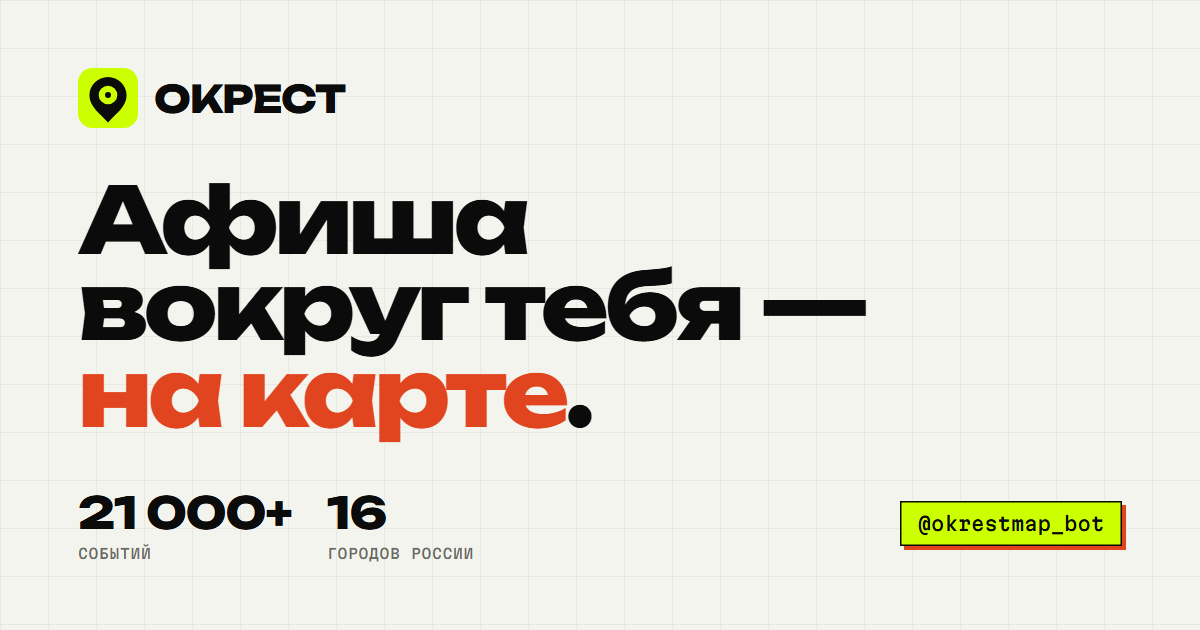
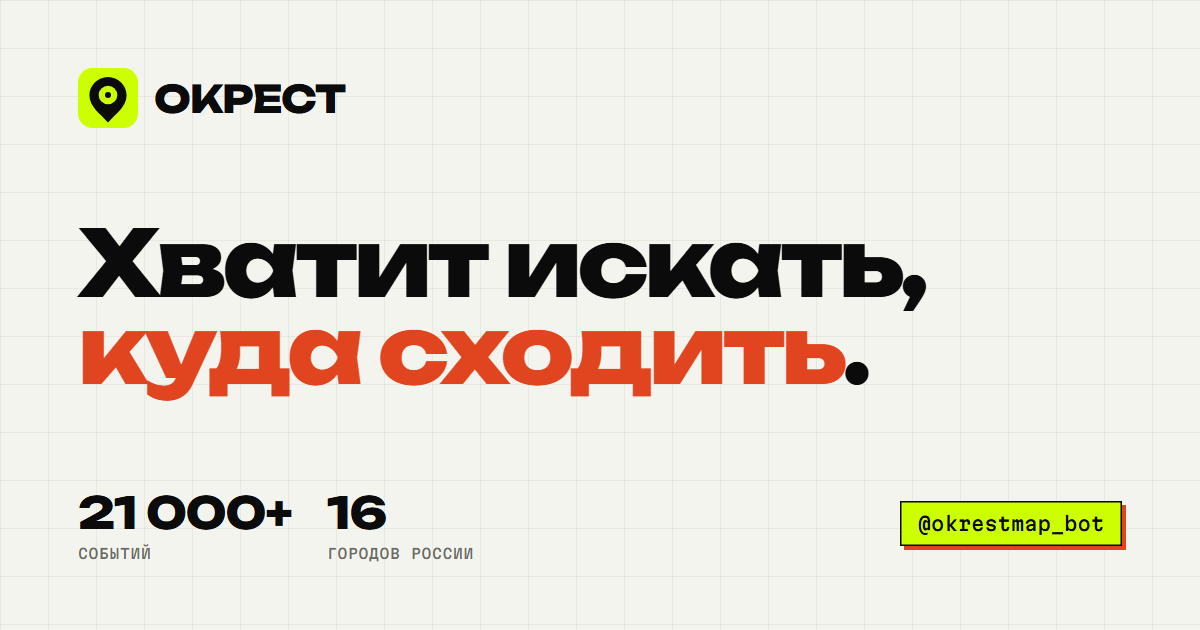
copy: rewrite landing voice - pain-led hero, scenario copy, human FAQ
Кill the robotic SEO-filler tone (per user + GPT critique). Pain-led hero 'Хватит искать, куда сходить'; scenario copy instead of repeating the category list everywhere (now stated once in hero); parallel demo cards 'На карте / В карточке / В списке'; livelier h2s ('Открыл — и город ожил', 'Что умеет Окрест', 'Уже работает в 16 городах'); FAQ with real questions ('Окрест — это что?', 'Это бесплатно? В чём подвох?', 'Нужно что-то устанавливать?') + matching FAQPage schema. New og:image headline + og/twitter copy.

Changed region(s): [[0.0617, 0.2714, 0.7708, 0.7238]]

diff --git a/landing/index.html b/landing/index.html
@@ -10,8 +10,8 @@
     <link rel="apple-touch-icon" href="favicon.svg" />
     <link rel="canonical" href="https://okrestmap.ru/" />
     <meta name="robots" content="index, follow, max-image-preview:large, max-snippet:-1" />
-    <meta property="og:title" content="Окрест — афиша на карте" />
-    <meta property="og:description" content="21 000+ событий в 16 городах России — концерты, выставки, спектакли, стендап и кино на одной карте, прямо в Telegram." />
+    <meta property="og:title" content="Хватит искать, куда сходить — Окрест" />
+    <meta property="og:description" content="Открываешь Окрест — и видишь, что рядом: сегодня, завтра или на выходных. Карта событий твоего города прямо в Telegram." />
     <meta property="og:type" content="website" />
     <meta property="og:url" content="https://okrestmap.ru/" />
     <meta property="og:site_name" content="Окрест" />
@@ -20,8 +20,8 @@
     <meta property="og:image:width" content="1200" />
     <meta property="og:image:height" content="630" />
     <meta name="twitter:card" content="summary_large_image" />
-    <meta name="twitter:title" content="Окрест — афиша на карте" />
-    <meta name="twitter:description" content="21 000+ событий в 16 городах России, прямо в Telegram." />
+    <meta name="twitter:title" content="Хватит искать, куда сходить — Окрест" />
+    <meta name="twitter:description" content="Карта событий твоего города в Telegram: что рядом сегодня, завтра или на выходных." />
     <meta name="twitter:image" content="https://okrestmap.ru/og.png" />
     <meta name="yandex-verification" content="1080c2a501830974" />
     <meta name="google-site-verification" content="vPrexlt72x3uw-UG8jdE1dETJbuHg49vNrrZMfgTBkY" />
@@ -33,12 +33,12 @@
           { "@type": "WebSite", "name": "Окрест", "url": "https://okrestmap.ru/", "inLanguage": "ru", "description": "Афиша 16 городов России на одной карте — концерты, выставки, спектакли, стендап и кино, прямо в Telegram." },
           { "@type": "SoftwareApplication", "name": "Окрест", "applicationCategory": "EntertainmentApplication", "operatingSystem": "Telegram", "url": "https://t.me/okrestmap_bot", "description": "Афиша событий на карте: концерты, выставки, спектакли, стендап и кино в 16 городах России.", "offers": { "@type": "Offer", "price": "0", "priceCurrency": "RUB" } },
           { "@type": "FAQPage", "mainEntity": [
-            { "@type": "Question", "name": "Что такое Окрест?", "acceptedAnswer": { "@type": "Answer", "text": "Окрест — это афиша событий на карте прямо в Telegram: концерты, выставки, спектакли, стендап и кино в 16 городах России на одной карте, без рекламы." } },
-            { "@type": "Question", "name": "В каких городах есть афиша?", "acceptedAnswer": { "@type": "Answer", "text": "Москва, Санкт-Петербург, Екатеринбург, Новосибирск, Казань, Нижний Новгород, Челябинск, Самара, Уфа, Ростов-на-Дону, Краснодар, Пермь, Воронеж, Волгоград, Красноярск и Омск — 16 городов, список пополняется." } },
-            { "@type": "Question", "name": "Сколько стоит?", "acceptedAnswer": { "@type": "Answer", "text": "Окрест бесплатный и без рекламы." } },
-            { "@type": "Question", "name": "Как пользоваться?", "acceptedAnswer": { "@type": "Answer", "text": "Открой бот @okrestmap_bot в Telegram — карта откроется прямо в приложении, ничего устанавливать не нужно." } },
-            { "@type": "Question", "name": "Какие события можно найти?", "acceptedAnswer": { "@type": "Answer", "text": "Концерты, выставки, спектакли, стендап, кино, фестивали и события для детей — больше 20 000 событий, обновляются каждый день." } },
-            { "@type": "Question", "name": "Можно получать напоминания?", "acceptedAnswer": { "@type": "Answer", "text": "Да — сохрани событие в избранное, и бот напомнит за 2 часа до начала." } }
+            { "@type": "Question", "name": "Окрест — это что?", "acceptedAnswer": { "@type": "Answer", "text": "Карта событий в твоём городе — прямо в Telegram. Открываешь и видишь, куда можно сходить: рядом, сегодня или в ближайшие дни." } },
+            { "@type": "Question", "name": "В моём городе работает?", "acceptedAnswer": { "@type": "Answer", "text": "Сейчас в 16 городах: Москва, Санкт-Петербург, Екатеринбург, Новосибирск, Казань, Нижний Новгород, Челябинск, Самара, Уфа, Ростов-на-Дону, Краснодар, Пермь, Воронеж, Волгоград, Красноярск и Омск. Новые добавляем постепенно." } },
+            { "@type": "Question", "name": "Это бесплатно? В чём подвох?", "acceptedAnswer": { "@type": "Answer", "text": "Бесплатно и без рекламы. Билеты не продаём и комиссию не берём — просто показываем, что вокруг." } },
+            { "@type": "Question", "name": "А события откуда?", "acceptedAnswer": { "@type": "Answer", "text": "Собираем из сотен источников — площадки, агрегаторы, официальные каналы — и обновляем каждый день. Прямо сейчас их больше 20 000." } },
+            { "@type": "Question", "name": "А если забуду, на что собрался?", "acceptedAnswer": { "@type": "Answer", "text": "Сохрани событие в избранное — напомним за пару часов до начала. И друзей можно позвать с собой." } },
+            { "@type": "Question", "name": "Нужно что-то устанавливать?", "acceptedAnswer": { "@type": "Answer", "text": "Нет. Открываешь @okrestmap_bot в Telegram — карта запускается прямо внутри, качать ничего не надо." } }
           ] }
         ]
       }
@@ -277,14 +277,14 @@
 
       <section class="hero">
         <div class="hero__text">
-          <h1 class="hero__title">Афиша вокруг тебя — <em>на&nbsp;карте</em>.</h1>
-          <p class="hero__sub">Концерты, выставки, спектакли, стендап и кино в <b>16 городах России</b>. Всё на одной карте — прямо в Telegram.</p>
+          <h1 class="hero__title">Хватит искать, <em>куда сходить</em>.</h1>
+          <p class="hero__sub">Открываешь Окрест — и видишь, что рядом: сегодня, завтра или на выходных. Концерты, выставки, стендап, кино и места, о которых ты не знал.</p>
           <div class="stats">
             <div><span class="stat__n"><span class="js-count">21&nbsp;200</span><em>+</em></span><span class="stat__k">событий</span></div>
             <div><span class="stat__n">16</span><span class="stat__k">городов</span></div>
           </div>
-          <div class="stats__note">обновляется каждый день</div>
-          <div><a class="cta" href="https://t.me/okrestmap_bot"><span>Открыть в Telegram</span><span class="cta__a">→</span></a></div>
+          <div class="stats__note">и каждый день новые</div>
+          <div><a class="cta" href="https://t.me/okrestmap_bot"><span>Найти, куда сходить</span><span class="cta__a">→</span></a></div>
         </div>
 
         <div class="hero__media">
@@ -318,42 +318,42 @@
       </section>
 
       <section class="demos">
-        <h2 class="demos__h">Как это работает</h2>
-        <p class="demos__s">Открываешь карту — видишь, что вокруг. Сохраняешь — напомним.</p>
+        <h2 class="demos__h">Открыл — и город ожил</h2>
+        <p class="demos__s">Без долгого поиска по десяткам сайтов и пабликов — просто карта с тем, что рядом.</p>
         <div class="row">
           <div class="col">
             <div class="phone"><div class="phone__screen"><img src="shots/map.jpg" width="720" height="1548" loading="lazy" alt="Карта событий вокруг — приложение Окрест" /></div></div>
-            <div class="col__k">Рядом</div>
-            <div class="col__t">Открыл карту — видно, что происходит вокруг прямо сейчас.</div>
+            <div class="col__k">На карте</div>
+            <div class="col__t">Сразу видно, что происходит рядом — в центре, у метро или в соседнем районе.</div>
           </div>
           <div class="col">
             <div class="phone"><div class="phone__screen"><img src="shots/event.jpg" width="720" height="1548" loading="lazy" alt="Карточка события — приложение Окрест" /></div></div>
-            <div class="col__k">Не пропустишь</div>
-            <div class="col__t">Время, цена, адрес, метро. Сохрани — напомним за 2 часа.</div>
+            <div class="col__k">В карточке</div>
+            <div class="col__t">Время, цена, адрес и метро — без лишних переходов. Сохрани — напомним за 2 часа.</div>
           </div>
           <div class="col">
             <div class="phone"><div class="phone__screen"><img src="shots/list.jpg" width="720" height="1548" loading="lazy" alt="Список событий — приложение Окрест" /></div></div>
-            <div class="col__k">Не любишь карту?</div>
-            <div class="col__t">Смотри списком и сортируй по дате, цене, близости.</div>
+            <div class="col__k">В списке</div>
+            <div class="col__t">Хочешь быстрее — открой список и сортируй по дате, цене или близости.</div>
           </div>
         </div>
       </section>
 
       <section class="inside">
-        <h2 class="inside__h">Что внутри</h2>
+        <h2 class="inside__h">Что умеет Окрест</h2>
         <ul class="checks">
-          <li><span class="ck">✓</span><span><b class="js-count">21&nbsp;200</b>+ событий по всей стране</span></li>
-          <li><span class="ck">✓</span><span>16 городов России</span></li>
-          <li><span class="ck">✓</span><span>Напоминания за 2 часа до начала</span></li>
-          <li><span class="ck">✓</span><span>Друзья и совместные события</span></li>
-          <li><span class="ck">✓</span><span>Подборки недели</span></li>
-          <li><span class="ck">✓</span><span>Площадки и подписки на них</span></li>
+          <li><span class="ck">✓</span><span><b class="js-count">21&nbsp;200</b>+ событий — и каждый день новые</span></li>
+          <li><span class="ck">✓</span><span>16 городов — и список растёт</span></li>
+          <li><span class="ck">✓</span><span>Напомним за 2 часа — не проспишь</span></li>
+          <li><span class="ck">✓</span><span>Зовёшь друзей — идёте вместе</span></li>
+          <li><span class="ck">✓</span><span>Подборки на выходные</span></li>
+          <li><span class="ck">✓</span><span>Подписка на любимые места</span></li>
         </ul>
       </section>
 
       <section class="cities">
-        <h2 class="cities__h">Афиша в 16 городах России</h2>
-        <p class="cities__s">Концерты, выставки, спектакли, стендап и кино — на одной карте в каждом городе. Список пополняется.</p>
+        <h2 class="cities__h">Уже работает в 16 городах</h2>
+        <p class="cities__s">От Москвы до Омска: выбираешь город — и видишь афишу на карте, что рядом сегодня, завтра или на выходных.</p>
         <ul class="cities__list">
           <li>Москва</li>
           <li>Санкт-Петербург</li>
@@ -377,17 +377,17 @@
       <section class="faq">
         <h2 class="faq__h">Частые вопросы</h2>
         <div class="faq__list">
-          <details class="faq__item"><summary>Что такое Окрест?</summary><p>Окрест — это афиша событий на карте прямо в Telegram: концерты, выставки, спектакли, стендап и кино в 16 городах России на одной карте, без рекламы.</p></details>
-          <details class="faq__item"><summary>В каких городах есть афиша?</summary><p>Москва, Санкт-Петербург, Екатеринбург, Новосибирск, Казань, Нижний Новгород, Челябинск, Самара, Уфа, Ростов-на-Дону, Краснодар, Пермь, Воронеж, Волгоград, Красноярск и Омск — 16 городов, список пополняется.</p></details>
-          <details class="faq__item"><summary>Сколько стоит?</summary><p>Окрест бесплатный и без рекламы.</p></details>
-          <details class="faq__item"><summary>Как пользоваться?</summary><p>Открой бот <a href="https://t.me/okrestmap_bot">@okrestmap_bot</a> в Telegram — карта откроется прямо в приложении, ничего устанавливать не нужно.</p></details>
-          <details class="faq__item"><summary>Какие события можно найти?</summary><p>Концерты, выставки, спектакли, стендап, кино, фестивали и события для детей — больше 20 000 событий, обновляются каждый день.</p></details>
-          <details class="faq__item"><summary>Можно получать напоминания?</summary><p>Да — сохрани событие в избранное, и бот напомнит за 2 часа до начала.</p></details>
+          <details class="faq__item"><summary>Окрест — это что?</summary><p>Карта событий в твоём городе — прямо в Telegram. Открываешь и видишь, куда можно сходить: рядом, сегодня или в ближайшие дни.</p></details>
+          <details class="faq__item"><summary>В моём городе работает?</summary><p>Сейчас в 16 городах: Москва, Санкт-Петербург, Екатеринбург, Новосибирск, Казань, Нижний Новгород, Челябинск, Самара, Уфа, Ростов-на-Дону, Краснодар, Пермь, Воронеж, Волгоград, Красноярск и Омск. Новые добавляем постепенно.</p></details>
+          <details class="faq__item"><summary>Это бесплатно? В чём подвох?</summary><p>Бесплатно и без рекламы. Билеты не продаём и комиссию не берём — просто показываем, что вокруг.</p></details>
+          <details class="faq__item"><summary>А события откуда?</summary><p>Собираем из сотен источников — площадки, агрегаторы, официальные каналы — и обновляем каждый день. Прямо сейчас их больше 20 000.</p></details>
+          <details class="faq__item"><summary>А если забуду, на что собрался?</summary><p>Сохрани событие в избранное — напомним за пару часов до начала. И друзей можно позвать с собой.</p></details>
+          <details class="faq__item"><summary>Нужно что-то устанавливать?</summary><p>Нет. Открываешь <a href="https://t.me/okrestmap_bot">@okrestmap_bot</a> в Telegram — карта запускается прямо внутри, качать ничего не надо.</p></details>
         </div>
       </section>
 
       <section class="end">
-        <h2 class="end__h">Открой карту своего города.</h2>
+        <h2 class="end__h">Ну что, куда сегодня?</h2>
         <a class="cta" href="https://t.me/okrestmap_bot"><span>Открыть в Telegram</span><span class="cta__a">→</span></a>
       </section>
 